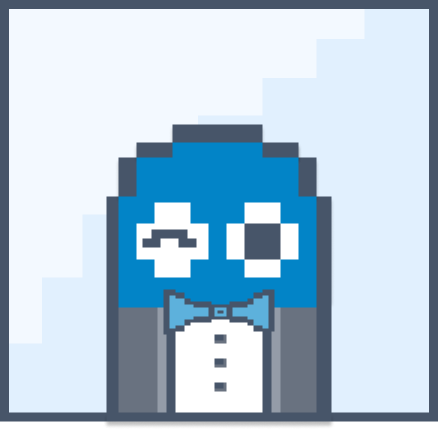
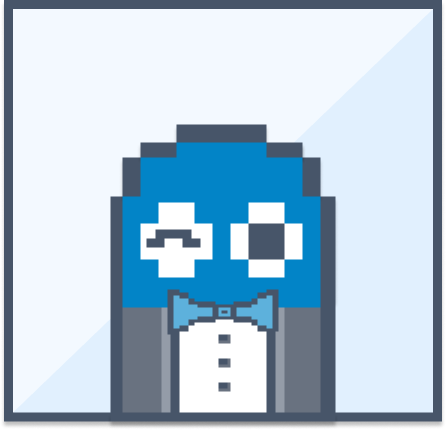
commit

diff --git a/Frontend/src/Components/Sections/Projects/Projects.jsx b/Frontend/src/Components/Sections/Projects/Projects.jsx
@@ -3,15 +3,84 @@ import React,{useEffect, useState} from 'react'
 import AppWrap from '../../../Wrapper/AppWrap'
 import { motion }  from "framer-motion"
 import { client, urlFor  } from "../../../client.js"
-import "./projects.scss"
+
+import AwesomeSlider from 'react-awesome-slider';
+import 'react-awesome-slider/dist/styles.css';
+import "./Projects.scss"
+import "./Slider.scss"
 
 function Projects() {
+ const [animateCard, setAnimateCard] = useState({ y: 0, opacity: 1})
+ const [works, setWorks] = useState([])
+
+
+ useEffect(() =>{
+  const query = "*[_type == 'projects']"
+
+  client.fetch(query)
+  .then((data) =>{
+    setWorks(data)
+  })
+}, [])
+
+console.log(works[0]?.imgUrl)
+
+
   return (
     <>
-    
+    <h1 className='text-3xl uppercase font-semibold text-slate-700 my-10'> My  <span className='text-sky-600'> Portfolio </span></h1>
+
+      <motion.div
+      animate={animateCard}
+      transition={{duration:0.5}}
+      className='app__projects-porfolio'
+      >
+          {works.map((item, index) => (
+        <div key={index} className='app__projects-item app__flex gap-1 flex-col lg:flex-row lg:gap-16 mb-20'>
+          <div className='app__projects-img app__flex flex-col '>
+
+          <h1 className='text-slate-600 font-semibold text-lg text-center  lg:hidden block'>{item.title}</h1>
+          <AwesomeSlider className='mb-6 lg:border-slate-600 lg:border-4 lg:py-2'>
+        {item?.imgUrl.map((imageUrl, index) => (
+          <div key={index}>
+            <img src={urlFor(imageUrl)} alt={`Image ${index + 1}`} />
+          </div>
+        ))}
+         </AwesomeSlider>
+        
+      
+          </div>
+
+          <div className='app__projects-info-container'>
+          <h1 className='text-slate-600 font-semibold text-lg text-center py-4 hidden lg:block'>{item.title}</h1>
+
+          <div className='flex gap-2 px-6 mb-6 mt-6 lg:mt-0'>
+            {item?.tags.map((tag, index) =>( 
+              <h1 className='border-sky-600  border-2 px-1  lg:text-sm text-xs'>{tag}</h1> 
+            ))}
+          </div>
+
+          <p className='px-6 text-justify text-sm '>{item.description}</p>
+
+         
+          <button className='block ml-6 bg-sky-600 px-3 py-1 transition w-36 hover:bg-slate-600 text-white opacity-90 my-5' > Live demo</button>
+          
+          
+          <button className='block ml-6 bg-sky-600 px-3 py-1 transition w-36 hover:bg-slate-600 text-white opacity-90'> Githup Repo</button>
+
+          <img src={urlFor(item.icon)} className='absolute bottom-0 right-14' alt="" />
+          </div>
+
+          </div>
+      ))}
+
+
+      </motion.div>
+      
     </>
   )
 }
 
 
-export default  AppWrap(Projects, "work", "")
+export default  AppWrap(Projects, "work", "../src/Assets/ProjectsBg.png")
+

diff --git a/Frontend/src/Components/Sections/Projects/Projects.scss b/Frontend/src/Components/Sections/Projects/Projects.scss
@@ -1,0 +1,37 @@
+.app__projects-img{
+    width: 500px;
+    
+    @media screen and (max-width: 400px){
+        width: 300px;
+        
+    }
+
+    @media screen and (max-width: 549px) and (min-width: 400px){
+        width: 360px;
+        
+    }
+
+}
+
+.app__projects-porfolio{
+    display: flex;
+    flex-direction: column;
+}
+
+
+.app__projects-info-container{
+    width: auto;
+    max-width: 500px;
+    height: 350px;
+    position: relative;
+    border-bottom: #475569 3px solid;
+   
+
+    @media (min-width: 1024px) {
+        border: #475569 3px solid;
+        background-image: url("../src/Assets/Projectcontainer.png");
+        background-size: 'cover';
+        background-repeat: 'repeat';
+ 
+    }
+}

diff --git a/Frontend/src/Components/Sections/Projects/Slider.scss b/Frontend/src/Components/Sections/Projects/Slider.scss
@@ -1,0 +1,28 @@
+/* CustomSliderStyles.css */
+
+/* Override the background color of navigation bullets */
+.awssld__bullets button {
+  background-color: #0284C760;
+  width: 8px; /* Desired width for the bullets */
+  height: 8px; /* Desired height for the bullets */
+}
+
+
+.awssld__content {
+  background-color: #fff; /* Desired background color */
+ 
+}
+
+
+
+.awssld__container {
+  z-index: -1; /* Set a negative value to place it behind */
+  position: relative;
+}
+
+
+/* Override the color of navigation arrows */
+.awssld__controls__arrow-left,
+.awssld__controls__arrow-right {
+  color: #0284C7;
+}

diff --git a/Frontend/src/index.css b/Frontend/src/index.css
@@ -25,3 +25,20 @@
   scroll-behavior: smooth;
  
 }
+
+.aws-btn {
+
+  --slider-height-percentage: 60%;
+  --slider-transition-duration: 700ms;
+  --organic-arrow-thickness: 4px;
+  --organic-arrow-border-radius: 0px;
+  --organic-arrow-height: 40px;
+  --organic-arrow-color: #26456f;
+  --control-button-width: 10%;
+  --control-button-height: 25%;
+  --control-button-background: transparent;
+  --control-bullet-color: #2d5182;
+  --control-bullet-active-color: #26456f;
+  --loader-bar-color: #851515;
+  --loader-bar-height: 6px;
+  }

diff --git a/Frontend/src/Components/LayoutElements/Navbar/Navbar.scss b/Frontend/src/Components/LayoutElements/Navbar/Navbar.scss
@@ -91,6 +91,7 @@
     width: 35px;
     height: 35px;
     border-radius: 50%;
+    z-index:2;
     
   
     display: flex;
